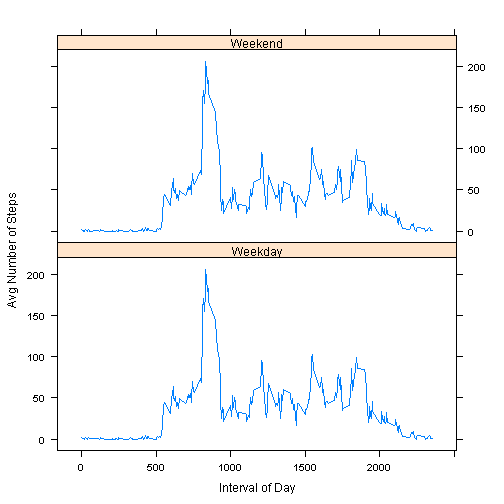
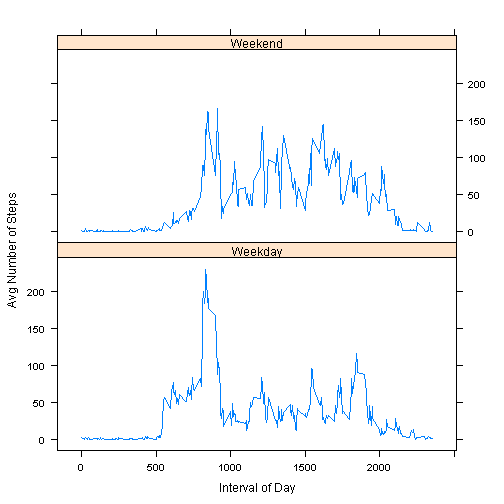
Fixed weekday factors in imputed df

diff --git a/PA1_template.html b/PA1_template.html
@@ -367,23 +367,18 @@ This differs from the median of only the valid data by 1.  </p>
 
 <p>We also look at a histogram of the total steps per day with the missing values filled in.  </p>
 
-<pre><code class="r">## Get total steps per day of new data set
-day_act1 &lt;- summarise(group_by(act1,date),
-                     daily_steps=sum(steps,na.rm=TRUE)
-)
-
-## Histogram of total steps taken per day with imputed values for NA
+<pre><code class="r">## Histogram of total steps taken per day with imputed values for NA
 ## 61 days, so bin ~10 days or breaks = 6
 hist(day_act1$daily_steps,
      main=&quot;Total Number of Steps Taken Per Day&quot;, 
      ylab=&quot;Number of Days&quot;, 
      xlab=&quot;Daily Total Steps Taken&quot;,
-     ##ylim=c(0,30),
+     ylim=c(0,35),
      breaks=6
 )
 </code></pre>
 
[2 lines of base64/hex data omitted]
 
 <p>This shows more days with the average number of steps as expected. Days with more or less steps than average are not affected.</p>
 
@@ -398,18 +393,22 @@ act1$weekday[act1$weekday != &quot;Weekend&quot;] &lt;- &quot;Weekday&quot;
 ## Make this column a factor for panel plot
 act1$weekday &lt;- as.factor(act1$weekday)
 
+int_act1 &lt;- summarise(group_by(act1,interval,weekday),
+                     int_steps=mean(steps)
+                     )
+
 ## Use lattice plotting
 library(lattice)
 
 ## Plot
-xyplot(int_steps ~ interval | weekday, act1, 
+xyplot(int_steps ~ interval | weekday, int_act1, 
        type=&quot;l&quot;,
        xlab=&quot;Interval of Day&quot;,
        ylab=&quot;Avg Number of Steps&quot;,
        layout=c(1,2))
 </code></pre>
 
[2 lines of base64/hex data omitted]
 
 <p>The patterns suggest earlier activity during the week and perhaps more activity in the middle of the day on weekends.  </p>
 

diff --git a/PA1_template.md b/PA1_template.md
@@ -198,18 +198,13 @@ We also look at a histogram of the total steps per day with the missing values f
  
 
 ```r
-## Get total steps per day of new data set
-day_act1 <- summarise(group_by(act1,date),
-                     daily_steps=sum(steps,na.rm=TRUE)
-)
-
 ## Histogram of total steps taken per day with imputed values for NA
 ## 61 days, so bin ~10 days or breaks = 6
 hist(day_act1$daily_steps,
      main="Total Number of Steps Taken Per Day", 
      ylab="Number of Days", 
      xlab="Daily Total Steps Taken",
-     ##ylim=c(0,30),
+     ylim=c(0,35),
      breaks=6
 )
 ```
@@ -230,11 +225,15 @@ act1$weekday[act1$weekday != "Weekend"] <- "Weekday"
 ## Make this column a factor for panel plot
 act1$weekday <- as.factor(act1$weekday)
 
+int_act1 <- summarise(group_by(act1,interval,weekday),
+                     int_steps=mean(steps)
+                     )
+
 ## Use lattice plotting
 library(lattice)
 
 ## Plot
-xyplot(int_steps ~ interval | weekday, act1, 
+xyplot(int_steps ~ interval | weekday, int_act1, 
        type="l",
        xlab="Interval of Day",
        ylab="Avg Number of Steps",
